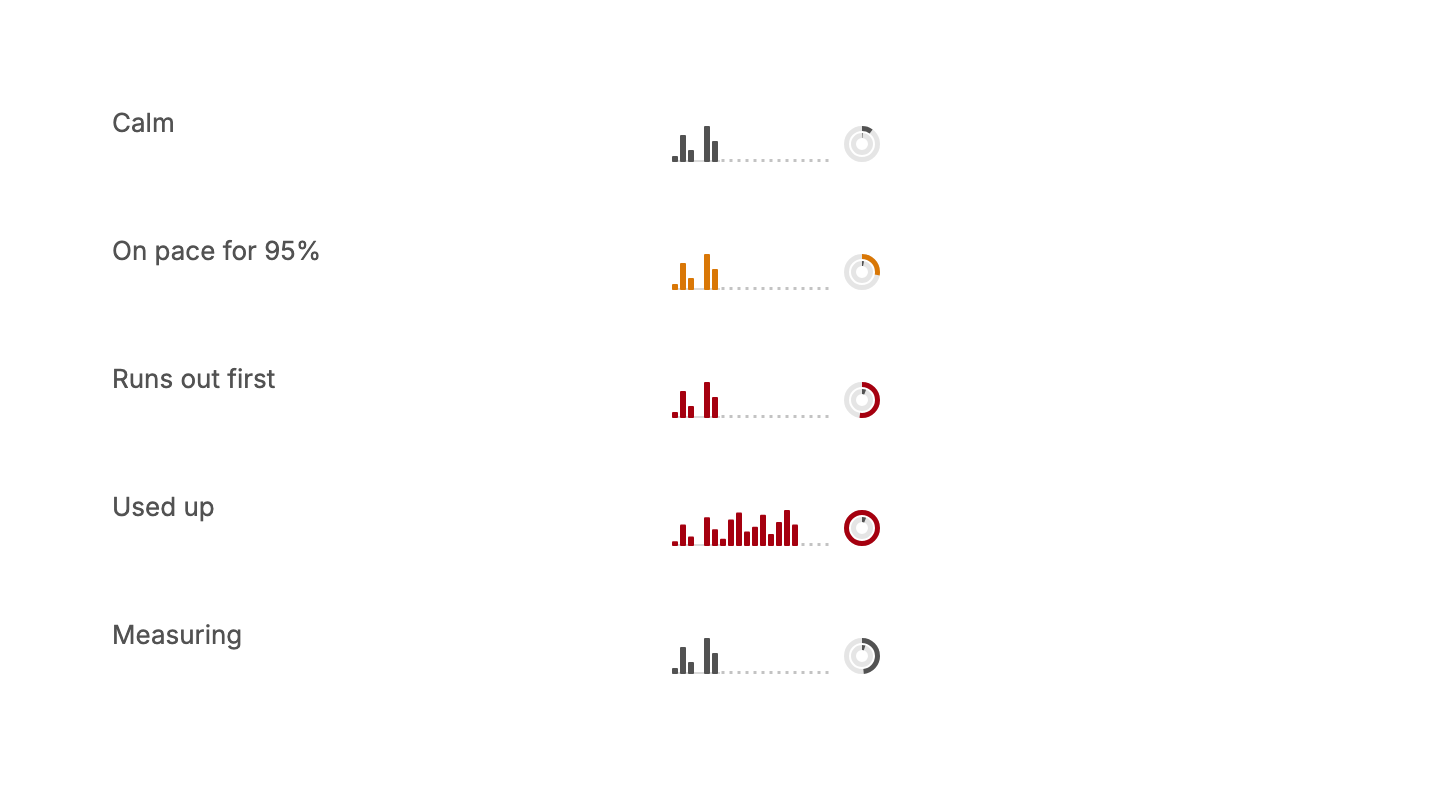
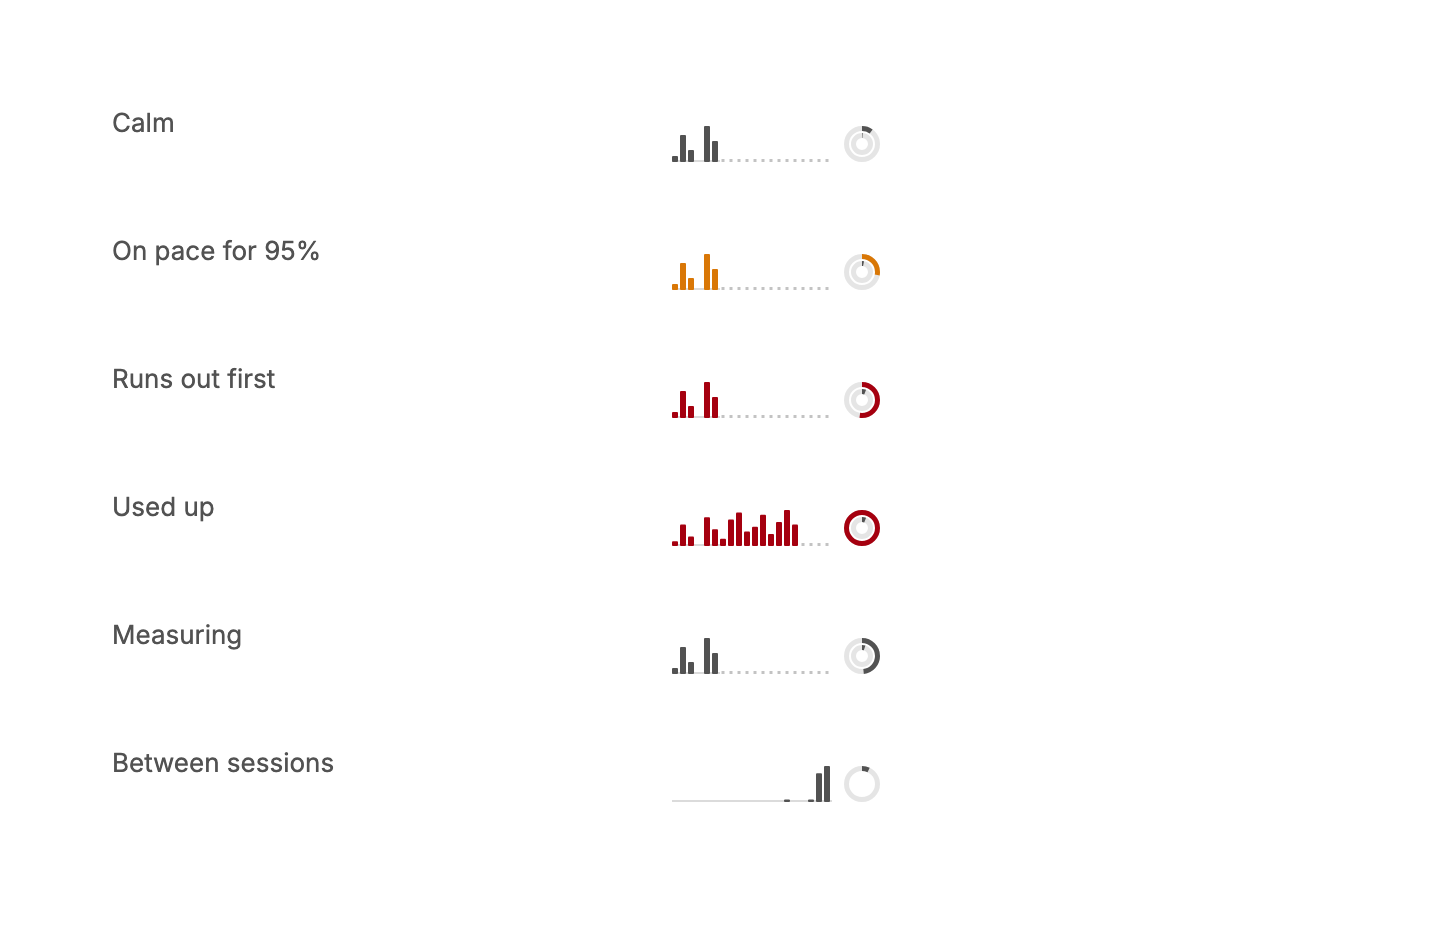
d73cc71 Tokenomics: show the weekly limit in the title bar between sessions
danielbachhuber/bb-plugins@d73cc71b3f2d2e7e7bbffa3a9716f65846aee108

diff --git a/tokenomics/README.md b/tokenomics/README.md
@@ -90,7 +90,7 @@ A thread whose context has grown past the error setting: the header's sparkline 
 
 ### Title bar
 
-The session in bb's title bar, after the other plugins' buttons: its tokens per 15 minutes from its start to its reset, with a dot for each 15 minutes still to come, and two rings for the percent used: the session outside, the week inside. Hovering shows the page's meters; clicking opens the page.
+The session in bb's title bar, after the other plugins' buttons: its tokens per 15 minutes from its start to its reset, with a dot for each 15 minutes still to come, and two rings for the percent used: the session outside, the week inside. Between sessions, the week's ring and the past five hours' tokens. Hovering shows the page's meters; clicking opens the page.
 
 ![Title bar](page--title-bar.png)
 
